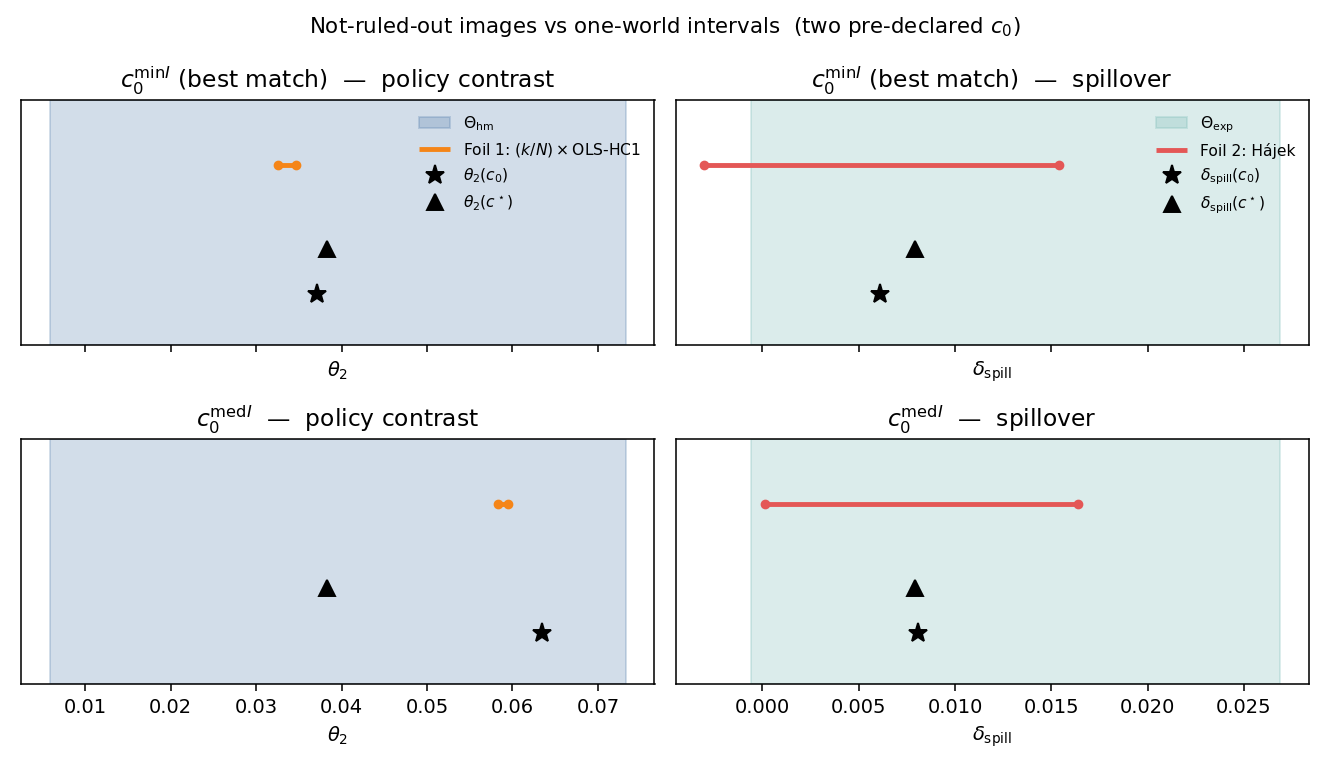
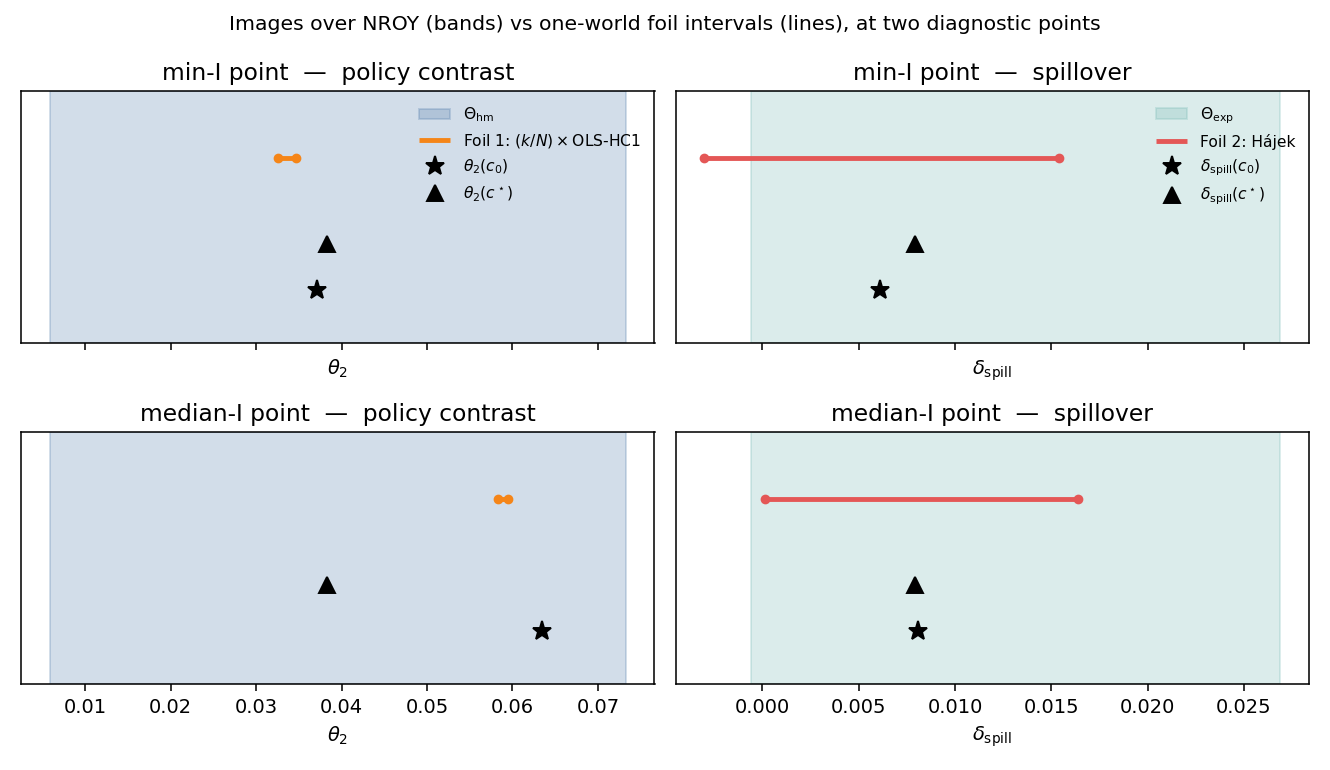
fix(figures): overlay labels use glossary names (min-I / median-I point; bands vs foil lines)
Retired 'best match' from the row title, and rewrote the suptitle so that it
no longer reads as if Theta_hm were an interval. Redrawn from saved results
with scripts/draw_figures.py (no simulation). .gitignore: latexmk products.

diff --git a/src/poc_abm/figures.py b/src/poc_abm/figures.py
@@ -27,7 +27,7 @@ def draw_overlay(payload: dict, path: Path) -> Path:
     path.parent.mkdir(parents=True, exist_ok=True)
 
     fig, axes = plt.subplots(2, 2, figsize=(9.5, 5.5), sharex="col")
-    row_names = (("min_I", r"$c_0^{\min I}$ (best match)"), ("median_I", r"$c_0^{\mathrm{med} I}$"))
+    row_names = (("min_I", "min-I point"), ("median_I", "median-I point"))
     for r, (key, title) in enumerate(row_names):
         w = payload["worlds"][key]
         # left: policy
@@ -60,7 +60,7 @@ def draw_overlay(payload: dict, path: Path) -> Path:
         if r == 0:
             ax.legend(loc="upper right", fontsize=8, frameon=False)
 
-    fig.suptitle("Not-ruled-out images vs one-world intervals  (two pre-declared $c_0$)", fontsize=11)
+    fig.suptitle("Images over NROY (bands) vs one-world foil intervals (lines), at two diagnostic points", fontsize=10.5)
     fig.tight_layout()
     fig.savefig(path, dpi=140)
     plt.close(fig)
